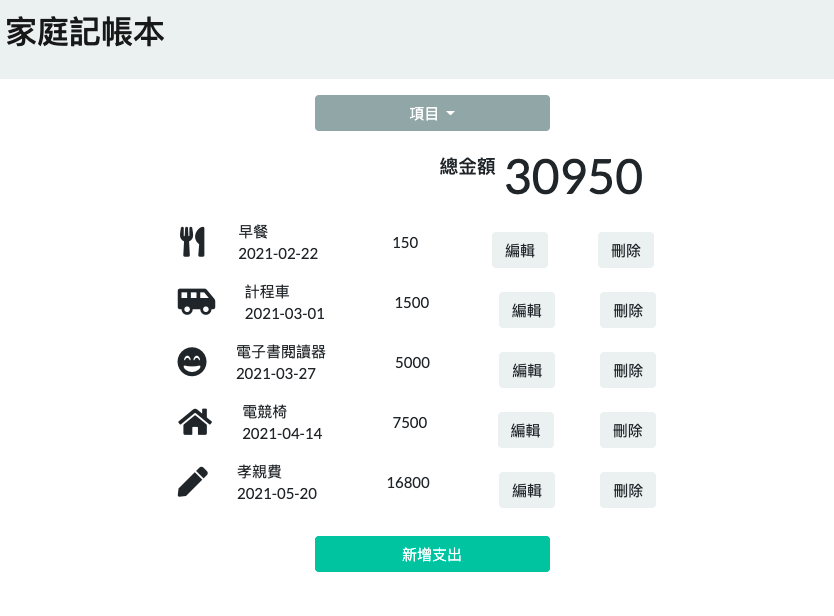
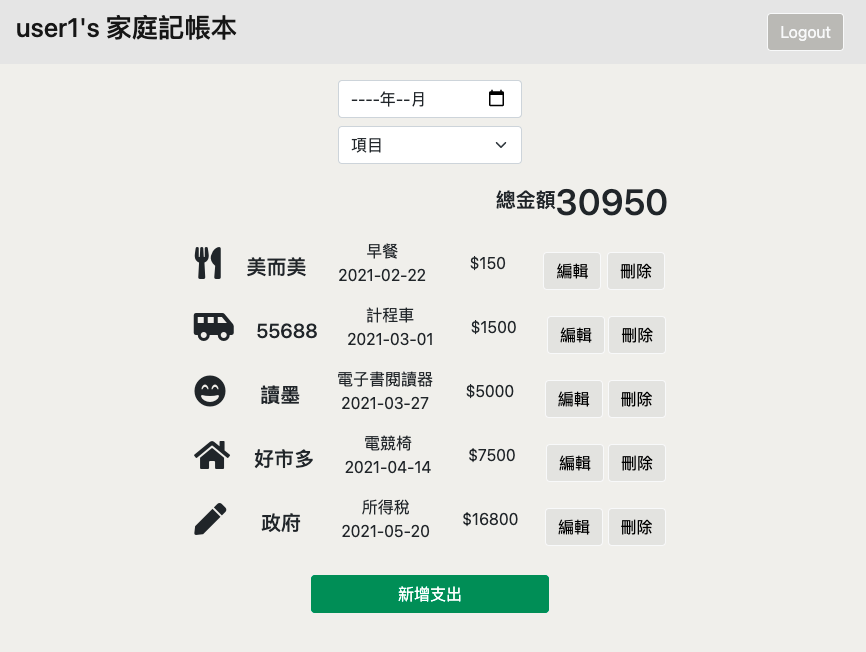
feat: update README

diff --git a/README.md b/README.md
@@ -8,12 +8,19 @@ A simple web application for expense tracker
 
 # Project Running Environment
 
-Node.js: 4.17.1  
-Express-handlebars 5.3.0  
-MongoDB: 4.2.13
-Handlebars-helpers: 0.10.0  
-Method-override: 3.0.0  
-Mongoose: 5.12.9
+bcryptjs: "^2.4.3",<br>
+connect-flash: "^0.1.1", <br>
+dotenv: "^10.0.0",<br>
+express: "^4.17.1",<br>
+express-handlebars: "^5.3.2",<br>
+express-session: "^1.17.2",<br>
+handlebars-helpers: "^0.10.0",<br>
+method-override: "^3.0.0",<br>
+moment: "^2.29.1",<br>
+mongoose: "^5.12.9",<br>
+passport: "^0.4.1",<br>
+passport-facebook: "^3.0.0",<br>
+passport-local: "^1.0.0"<br>
 
 ## Installation
 
@@ -23,11 +30,7 @@ Mongoose: 5.12.9
    $ git clone https://github.com/lewislu327/expense-tracker.git
 ```
 
-2. Install npm Express & Handlebars
-
-```
-   $ npm i expres express-handlebars
-```
+2. Install npm necessary tools as above
 
 3. cd to project folder
 
@@ -50,12 +53,15 @@ Mongoose: 5.12.9
 6. If terminal shows below content means it's working
 
 ```
-   Express is listening on http://localhost:3000
+   App is running on http://localhost:3000
 ```
 
 ## Features
 
-- listing current records from MangoDB
+- Register account by email or FB
+- After login you can only see your own data
+- Sorting data by month and category
+- Listing seeder records from MangoDB
 - Create your expense record
 - Show expense information by category
 - Edit expense information
